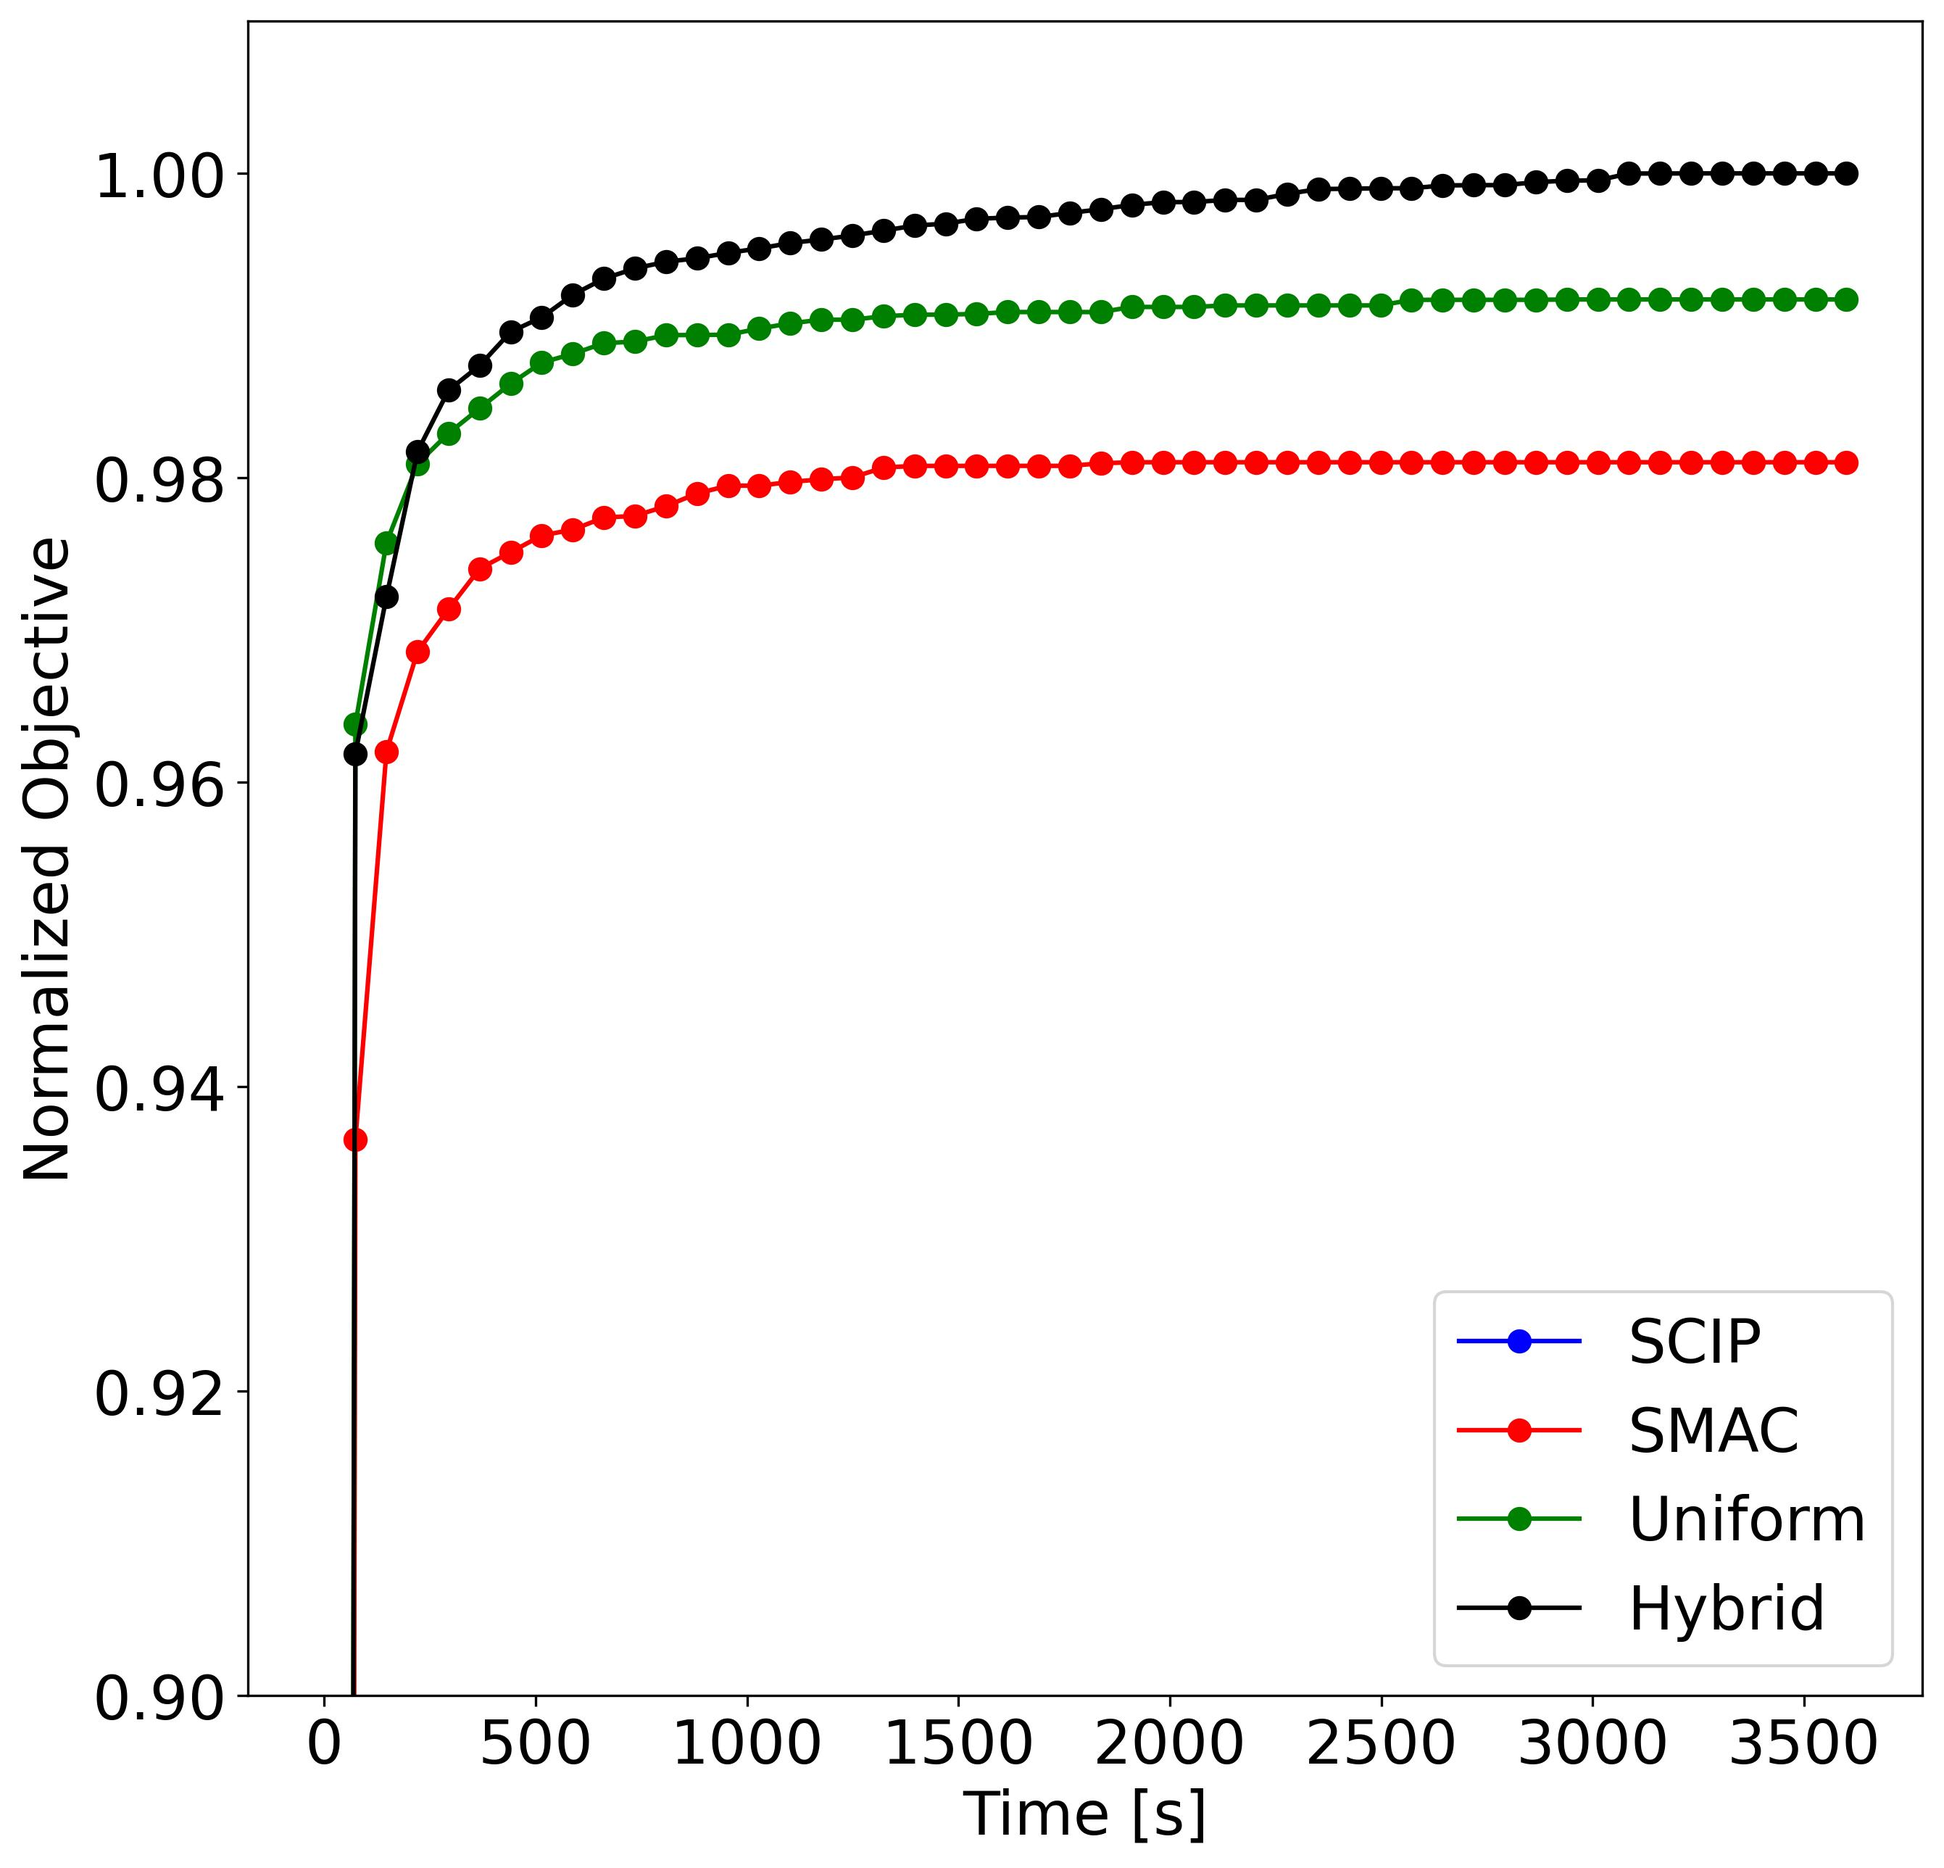
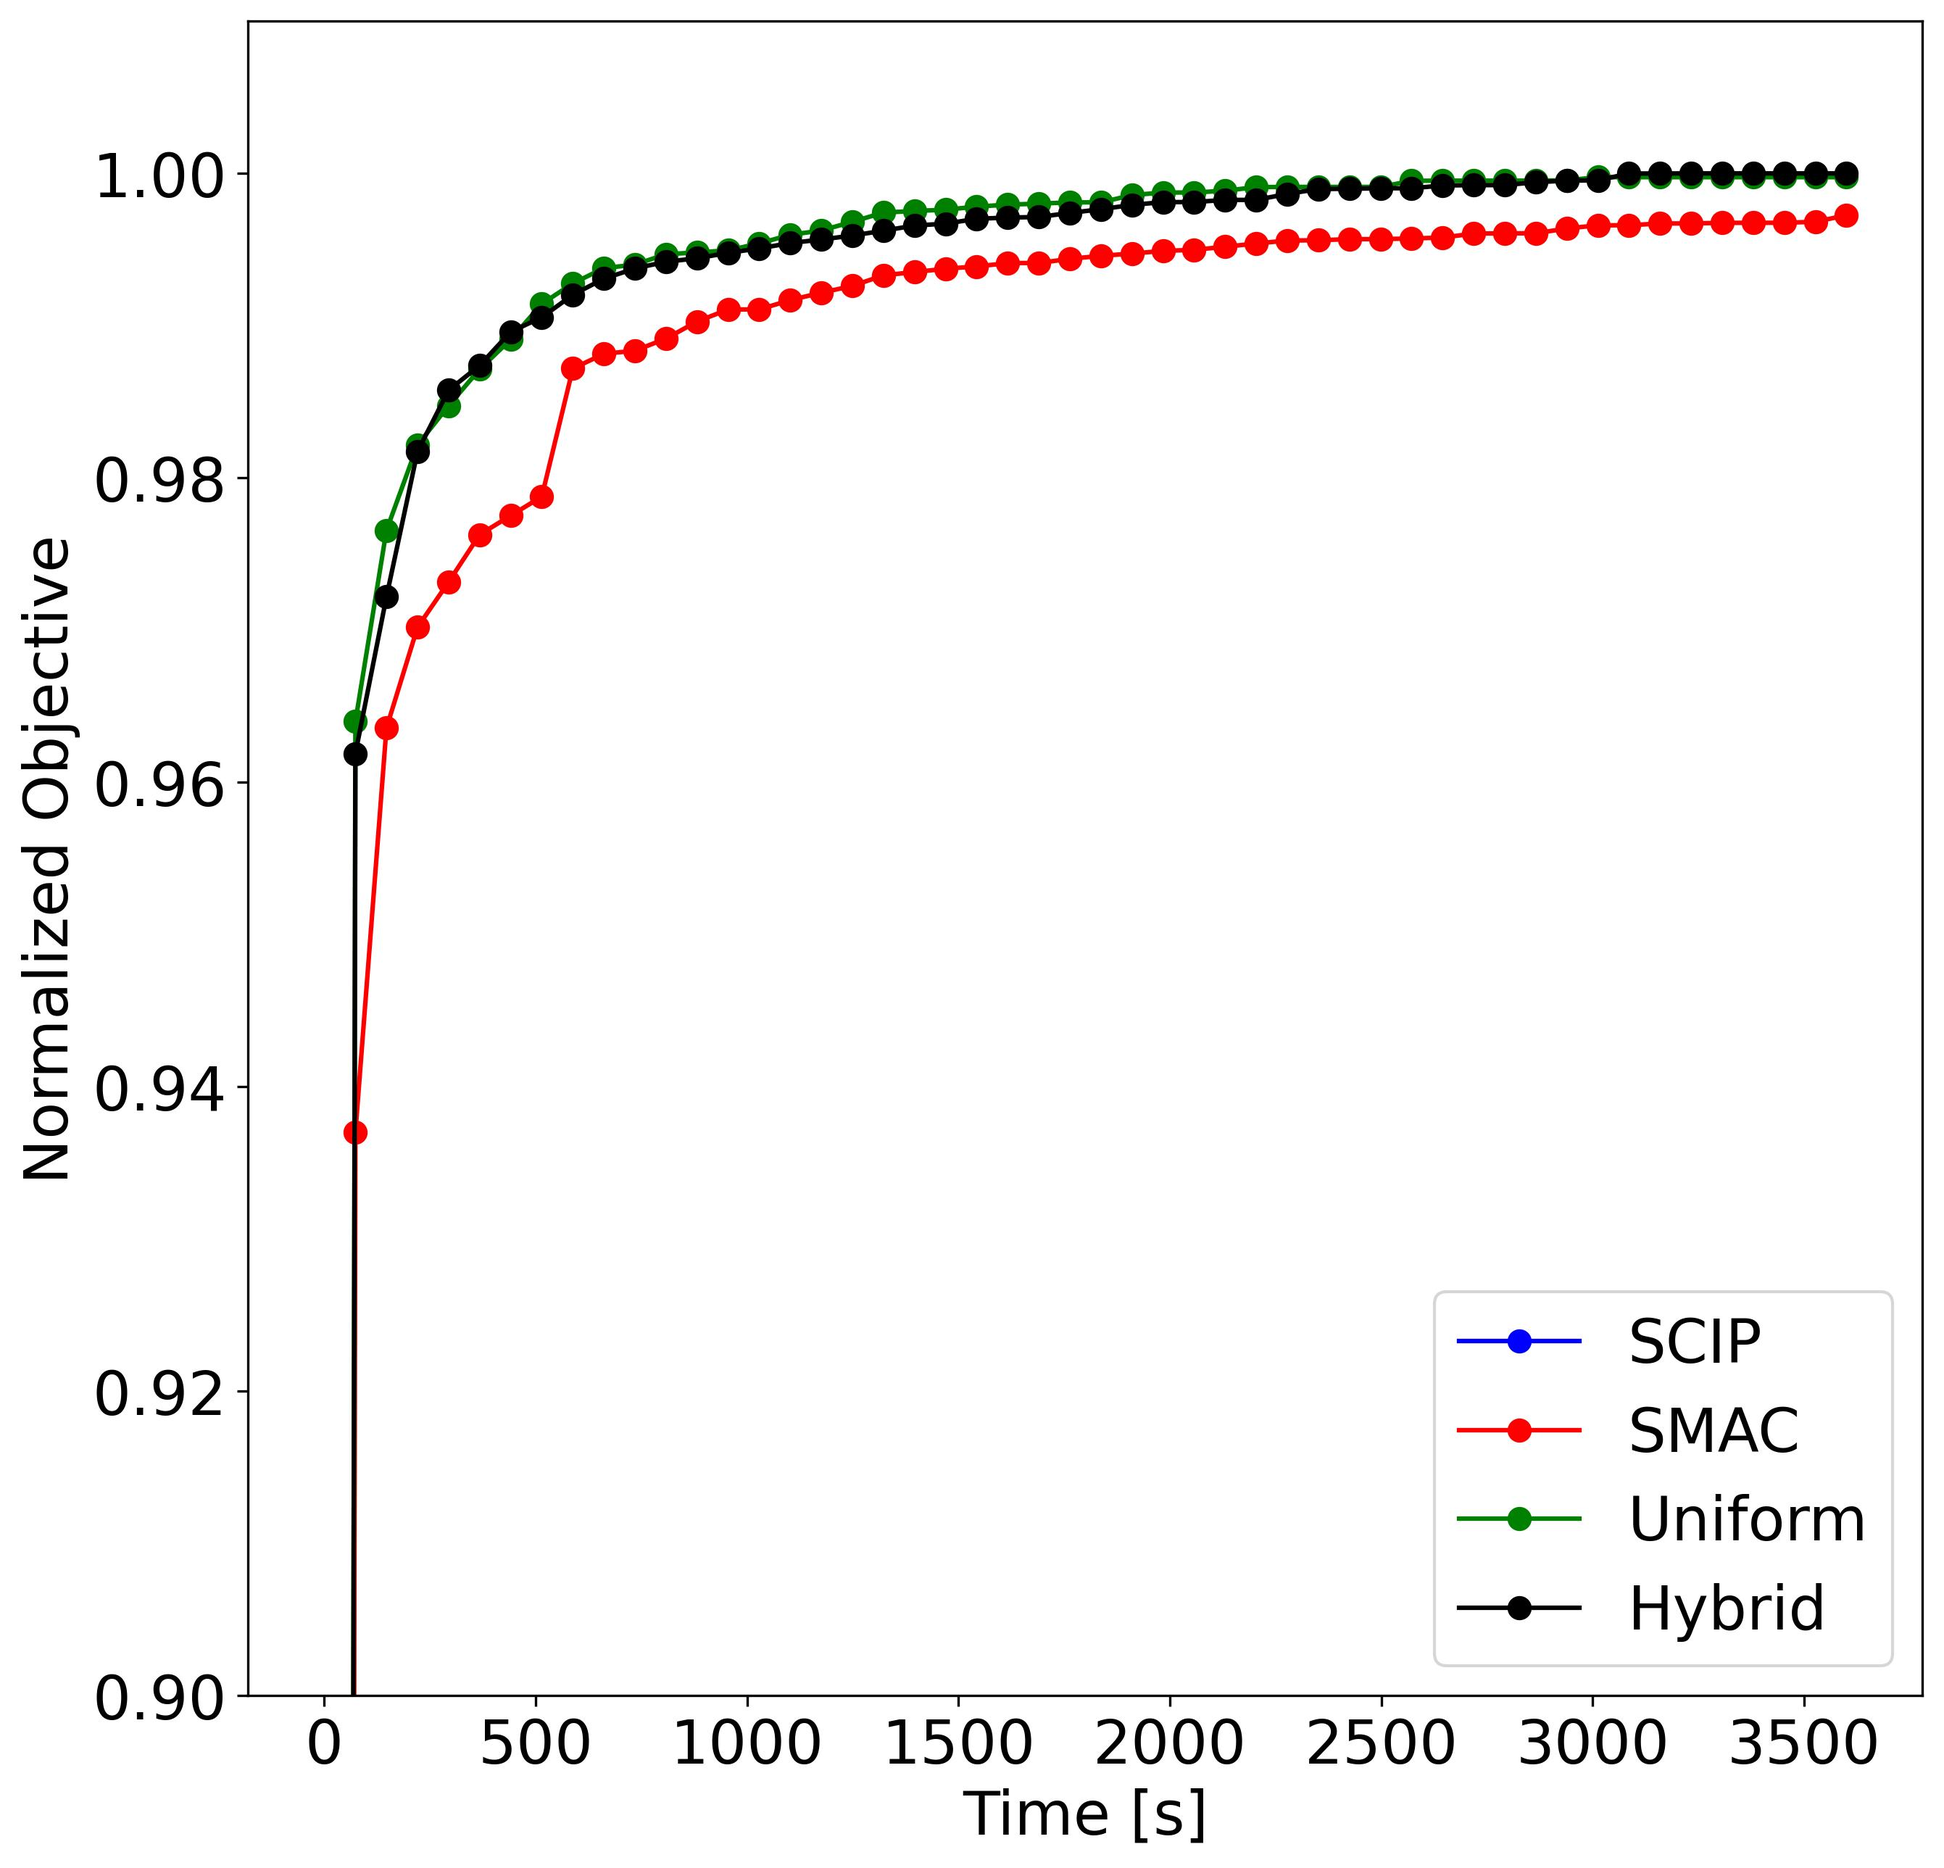
Adds history different plot; removes instance-specific history trimming

Changed region(s): [[0.2166, 0.0931, 0.9594, 0.2484], [0.1857, 0.2173, 0.9594, 0.4346]]

diff --git a/plots/power_grid_opt.py b/plots/power_grid_opt.py
@@ -57,44 +57,68 @@ def plot_instance_objective_histories():
 
 def plot_polar_vs_rectangular():
     """Plots normalized objective histories for polar and rectangular CasADi results on the 5-generator dataset."""
-    plot_histories([5], np.linspace(0, 1800, 50).tolist(), ["casadi", "casadi_rectangular"])
+    plot_histories([5], np.linspace(0, 1800, 50).tolist(), list(range(120)), ["casadi", "casadi_rectangular"])
 
 
 def plot_average_normalized_objective_histories():
     """Plots average normalized objective histories for the default solver comparison."""
-    plot_histories([13], np.linspace(0, 3600, 50).tolist(), ["scip", "smac", "uniform", "hybrid"], "hybrid")
+    plot_histories([13], np.linspace(0, 3600, 50).tolist(), list(range(120)), ["scip", "smac", "uniform", "hybrid/nl_1"])
 
 
-def plot_histories(num_generators: Sequence[int], grid_times: Sequence[float], solver_ids: Sequence[str], ref_solver: str | None = None):
+def plot_history_diff():
+    """Plots differences between the first configured solver curve and all remaining configured solver curves."""
+    num_generators = [10, 11, 12, 13]
+    grid_times = np.linspace(0, 1800, 50).tolist()
+    instance_ids = list(range(120))
+    solver_ids = ["hybrid/nl_2", "uniform"]
+    lines = []
+    for num_gens_ind, num_gens in enumerate(num_generators):
+        curves = get_history_curves(num_gens, grid_times, instance_ids, solver_ids)
+        for solver_id in solver_ids[1:]:
+            label = str(num_gens)
+            lines.append(Line(grid_times, curves[solver_ids[0]] - curves[solver_id], color=num_gens_ind, marker=0, label=label))
+    lines.append(Line([grid_times[0], grid_times[-1]], [0, 0], color="black", marker="none", style="--"))
+    plot_general(lines, axis_labels=("Time [s]", "Normalized Objective Difference"), boundaries=(None, None, -0.05, 0.05))
+    save_figure()
+
+
+def plot_histories(num_generators: Sequence[int], grid_times: Sequence[float], instance_ids: Sequence[int], solver_ids: Sequence[str]):
     """Plots average normalized objective histories for configured solvers.
     :param num_generators: Generator counts whose datasets should be plotted together.
     :param grid_times: Uniform time grid used to align objective histories.
+    :param instance_ids: Instance ids included in the average normalized objective curves.
     :param solver_ids: Solver ids whose CSV files should be loaded from subfolders inside each dataset folder.
-    :param ref_solver: Solver whose per-instance last history time limits the compared solvers, or ``None`` to disable trimming.
     """
-    solver_names = {"scip": "SCIP", "smac": "SMAC", "uniform": "Uniform", "hybrid": "Hybrid"}
-    infeasible_tolerance = 1e-10
-    instance_ids = list(range(120))
+    solver_names = {"scip": "SCIP", "smac": "SMAC", "uniform": "Uniform", "hybrid/nl_1": "Hybrid", "hybrid/nl_2": "Hybrid L2"}
     lines = []
     labeled_solvers = set()
     for num_gens_ind, num_gens in enumerate(num_generators):
-        data_path = Path(__file__).resolve().parent.parent / f"data/{num_gens}"
-        solver_histories = {}
-        for solver_id in solver_ids:
-            csv_path = data_path / solver_id / ".solutions.csv"
-            if csv_path.exists():
-                solver_histories[solver_id] = _load_solver_histories(csv_path, infeasible_tolerance)
-        _trim_histories_to_ref_solver(solver_histories, ref_solver)
-        best_objectives = _get_best_objectives(instance_ids, solver_histories)
+        curves = get_history_curves(num_gens, grid_times, instance_ids, solver_ids)
         for solver_index, solver_id in enumerate(solver_ids):
-            if solver_id not in solver_histories:
-                continue
-            curve = _get_average_normalized_curve(grid_times, instance_ids, solver_histories[solver_id], best_objectives)
             label = solver_names.get(solver_id, solver_id) if solver_id not in labeled_solvers else "_nolabel_"
-            lines.append(Line(grid_times, curve, color=solver_index, marker=num_gens_ind, label=label))
+            lines.append(Line(grid_times, curves[solver_id], color=solver_index, marker=num_gens_ind, label=label))
             labeled_solvers.add(solver_id)
     plot_general(lines, axis_labels=("Time [s]", "Normalized Objective"), boundaries=(None, None, 0.9, 1.01))
     save_figure()
+
+
+def get_history_curves(num_generators: int, grid_times: Sequence[float], instance_ids: Sequence[int], solver_ids: Sequence[str]) -> dict[str, np.ndarray]:
+    """Computes average normalized objective curves for one dataset.
+    :param num_generators: Generator count whose dataset folder should be loaded.
+    :param grid_times: Uniform time grid used to align objective histories.
+    :param instance_ids: Instance ids included in the average normalized objective curves.
+    :param solver_ids: Solver ids whose CSV files should be loaded from subfolders inside the dataset folder.
+    :return: Average normalized objective curve for each loaded solver keyed by solver id.
+    """
+    infeasible_tolerance = 1e-10
+    data_path = Path(__file__).resolve().parent.parent / f"data/{num_generators}"
+    solver_histories = {}
+    for solver_id in solver_ids:
+        csv_path = data_path / solver_id / ".solutions.csv"
+        if csv_path.exists():
+            solver_histories[solver_id] = _load_solver_histories(csv_path, infeasible_tolerance)
+    best_objectives = _get_best_objectives(instance_ids, solver_histories)
+    return {solver_id: _get_average_normalized_curve(grid_times, instance_ids, histories, best_objectives) for solver_id, histories in solver_histories.items()}
 
 
 def _load_solver_histories(csv_path: Path, infeasible_tolerance: float) -> dict[int, list[HistoryEntry] | None]:
@@ -114,23 +138,7 @@ def _load_solver_histories(csv_path: Path, infeasible_tolerance: float) -> dict[
     return histories
 
 
-def _trim_histories_to_ref_solver(solver_histories: dict[str, dict[int, list[HistoryEntry] | None]], ref_solver: str | None) -> None:
-    """Trims non-reference histories to the reference solver's last per-instance timestamp.
-    :param solver_histories: Histories grouped by solver name and then by instance.
-    :param ref_solver: Solver whose last per-instance timestamp defines the cutoff, or ``None`` to disable trimming.
-    """
-    if ref_solver is None or ref_solver not in solver_histories:
-        return
-    ref_cutoff_times = {instance: history[-1].time for instance, history in solver_histories[ref_solver].items() if history}
-    for solver_id, histories in solver_histories.items():
-        if solver_id == ref_solver:
-            continue
-        for instance, history in histories.items():
-            if history and instance in ref_cutoff_times:
-                histories[instance] = [entry for entry in history if entry.time <= ref_cutoff_times[instance]]
-
-
-def _get_best_objectives(instance_ids: list[int], solver_histories: dict[str, dict[int, list[HistoryEntry] | None]]) -> dict[int, float | None]:
+def _get_best_objectives(instance_ids: Sequence[int], solver_histories: dict[str, dict[int, list[HistoryEntry] | None]]) -> dict[int, float | None]:
     """Finds the best known feasible objective per instance.
     :param instance_ids: Instance ids to include in aggregation.
     :param solver_histories: Histories grouped by solver name and then by instance.
@@ -143,7 +151,7 @@ def _get_best_objectives(instance_ids: list[int], solver_histories: dict[str, di
     return best_objectives
 
 
-def _get_average_normalized_curve(grid_times: Sequence[float], instance_ids: list[int], solver_histories: dict[int, list[HistoryEntry] | None],
+def _get_average_normalized_curve(grid_times: Sequence[float], instance_ids: Sequence[int], solver_histories: dict[int, list[HistoryEntry] | None],
                                   best_objectives: dict[int, float]) -> np.ndarray:
     """Computes average normalized objective curve on a uniform time grid.
     :param grid_times: Uniform time grid used for alignment.
@@ -171,5 +179,6 @@ def _get_average_normalized_curve(grid_times: Sequence[float], instance_ids: lis
 if __name__ == "__main__":
     # plot_instance_objective_histories()
     # plot_polar_vs_rectangular()
-    plot_average_normalized_objective_histories()
+    # plot_average_normalized_objective_histories()
+    plot_history_diff()
     plt.show()
